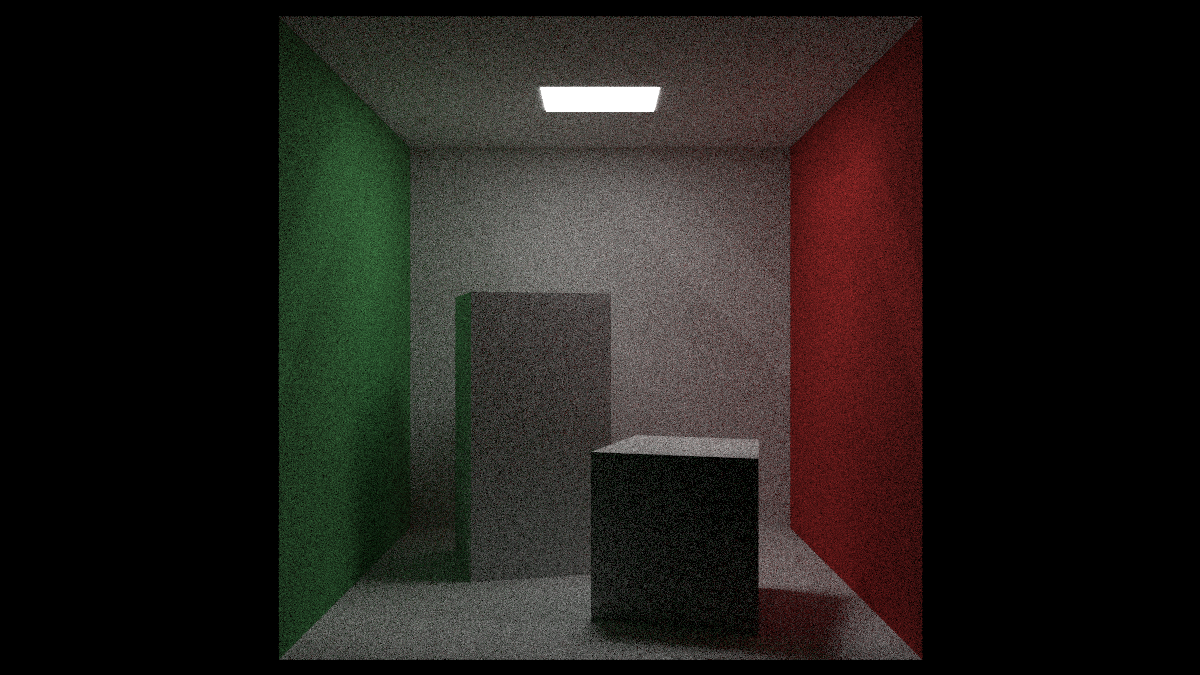
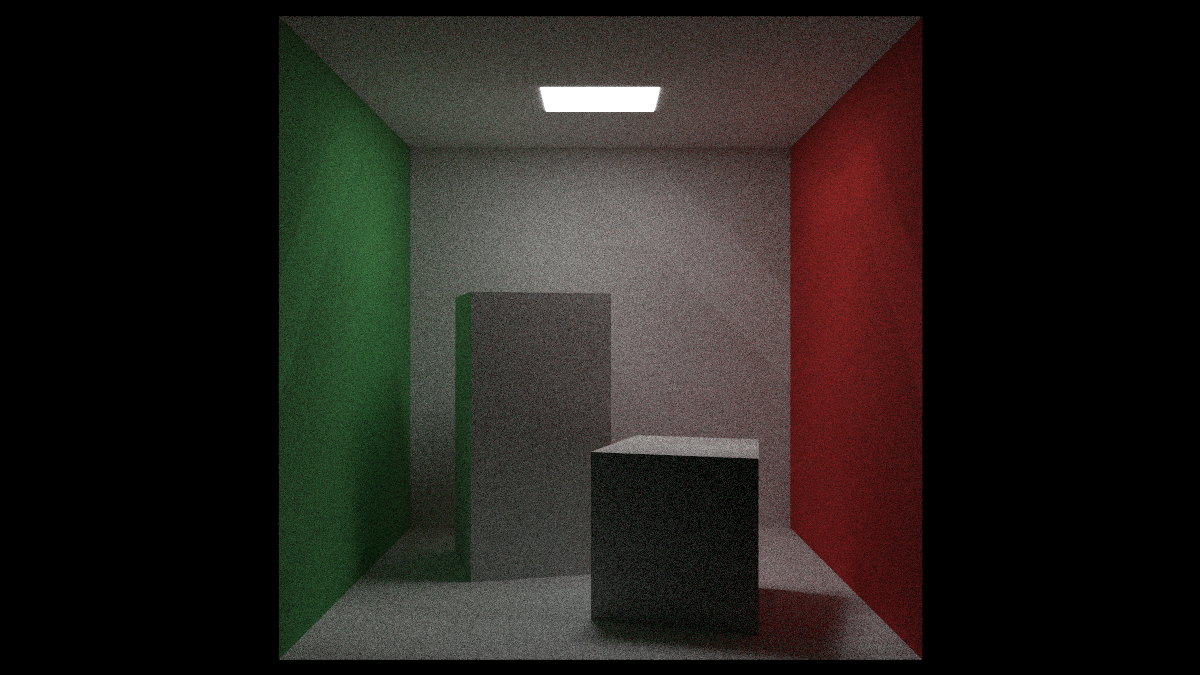
img update

Changed region(s): [[0.2467, 0.0311, 0.7708, 0.9956]]

diff --git a/main.cpp b/main.cpp
@@ -26,7 +26,7 @@ int main(int argc, char const *argv[])
     cam.aspect_ratio = 16.0 / 9.0;
     cam.image_width = 1200;
     cam.samplers_per_pixel = argc > 1 ? atoi(argv[argc - 1]) : 8; // samplers
-    cam.ray_gen_probability = 0.92;
+    cam.ray_gen_probability = 0.96;
 
     cam.vfov = 40;
     cam.lookfrom = point3(278, 278, -800);
